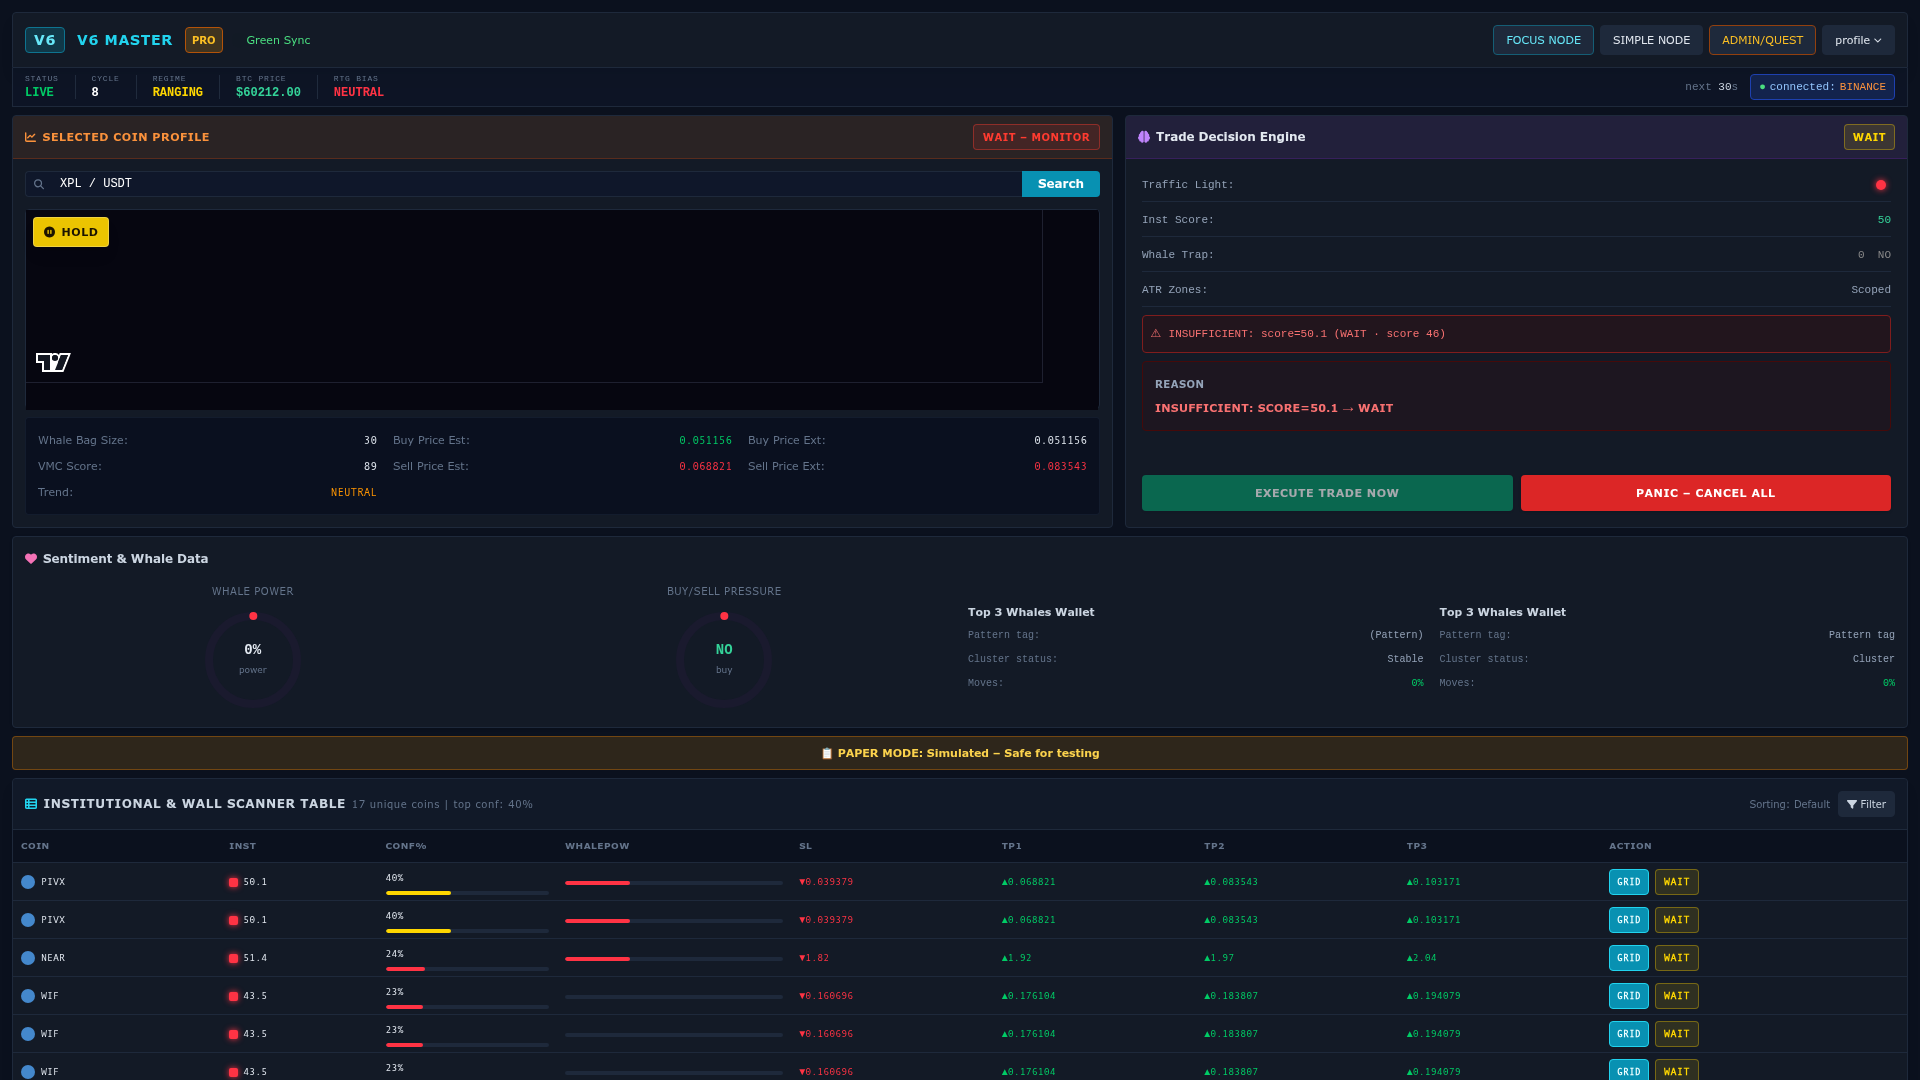
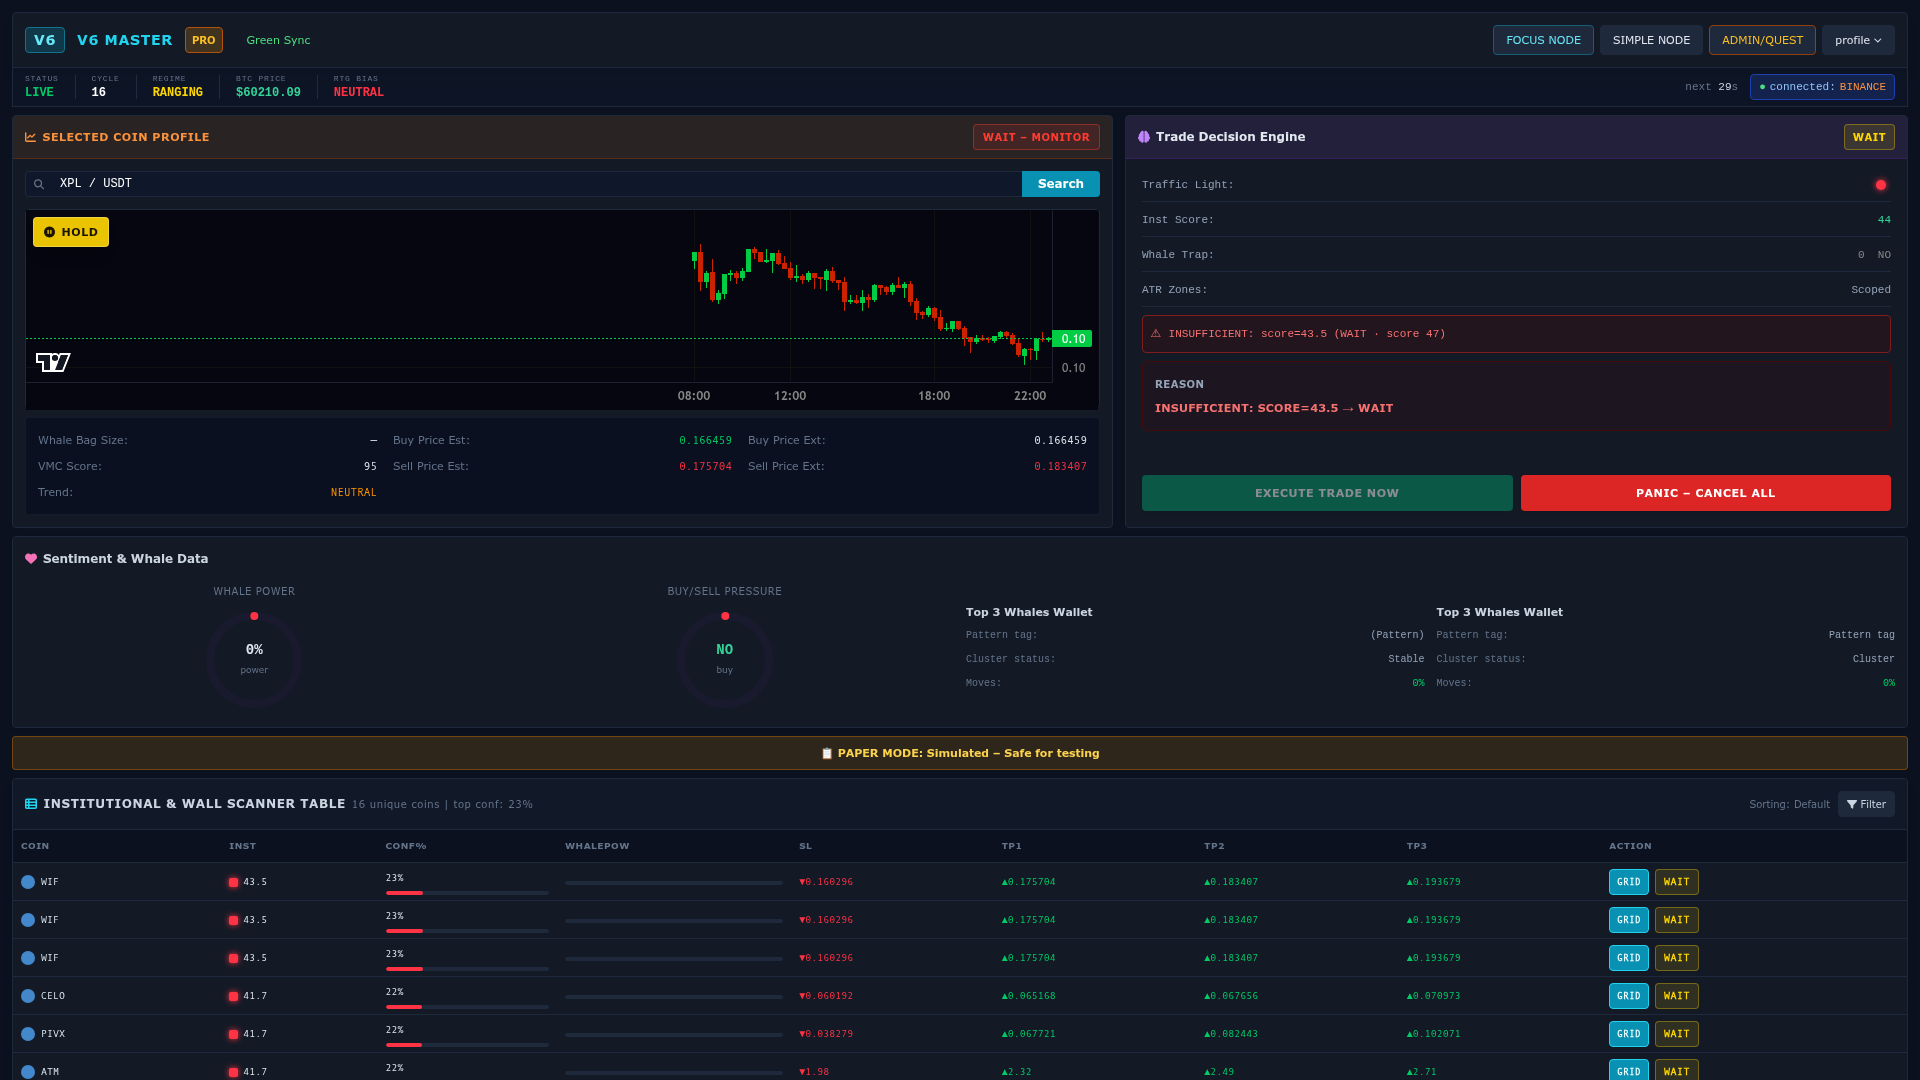
Restore dense, multi-column dashboard layout on mobile devices
Update viewport settings and remove responsive breakpoints to ensure a consistent, dense, multi-column layout across all devices, matching the reference design and fixing mobile rendering issues.

Replit-Commit-Author: Agent
Replit-Commit-Session-Id: be32f168-d16d-4131-b2b5-eff7703ee3bd
Replit-Commit-Checkpoint-Type: full_checkpoint
Replit-Commit-Event-Id: 8429b8b6-d45a-4d66-a552-1df854562b3e
Replit-Commit-Screenshot-Url: https://storage.googleapis.com/screenshot-production-us-central1/96e45e93-5690-48cf-b9a9-a27b3c00e2b2/be32f168-d16d-4131-b2b5-eff7703ee3bd/DhxVkaj
Replit-Helium-Checkpoint-Created: true

diff --git a/V6_Master_Pro_UI/index.html b/V6_Master_Pro_UI/index.html
@@ -2,7 +2,7 @@
 <html lang="en">
 <head>
 <meta charset="UTF-8"/>
-<meta name="viewport" content="width=1200"/>
+<meta name="viewport" content="width=760"/>
 <title>V6 Master Pro</title>
 <script src="https://cdn.tailwindcss.com"></script>
 <script>
@@ -128,10 +128,10 @@
 </div>
 
 <!-- ============ MAIN 2-COLUMN ============ -->
-<main class="grid grid-cols-1 lg:grid-cols-12 gap-3 mt-2">
+<main class="grid grid-cols-12 gap-3 mt-2">
 
   <!-- LEFT: COIN PROFILE & CHART -->
-  <section class="lg:col-span-7">
+  <section class="col-span-7">
     <div class="bg-panel border border-panelb rounded h-full overflow-hidden flex flex-col">
       <div class="flex items-center gap-2 px-3 py-2 bg-orange-500/10 border-b border-orange-700/30">
         <h2 class="text-orange-400 font-semibold uppercase tracking-wider text-[11px] flex items-center gap-1.5">
@@ -169,7 +169,7 @@
   </section>
 
   <!-- RIGHT: TRADE DECISION ENGINE -->
-  <section class="lg:col-span-5">
+  <section class="col-span-5">
     <div class="bg-panel border border-panelb rounded h-full overflow-hidden flex flex-col">
       <div class="flex justify-between items-center px-3 py-2 bg-purple-500/10 border-b border-purple-800/30">
         <h2 class="text-slate-200 font-semibold flex items-center gap-1.5 text-[12px]"><i class="fa-solid fa-brain text-purple-400"></i> Trade Decision Engine</h2>
@@ -202,7 +202,7 @@
 <!-- ============ SENTIMENT & WHALE DATA ============ -->
 <section class="bg-panel border border-panelb rounded p-3 mt-2 shadow">
   <h2 class="text-slate-300 font-semibold text-[12px] mb-3 flex items-center gap-1.5"><i class="fa-solid fa-heart text-pink-400"></i> Sentiment &amp; Whale Data</h2>
-  <div class="grid grid-cols-2 lg:grid-cols-4 gap-4 items-center">
+  <div class="grid grid-cols-4 gap-3 items-center">
     <!-- Whale Power gauge -->
     <div class="flex flex-col items-center">
       <div class="text-[10px] uppercase tracking-wider text-slate-500 mb-1">Whale Power</div>
@@ -276,7 +276,7 @@
 
 <!-- ============ PANELS BELOW TABLE ============ -->
 <div class="text-[10px] uppercase tracking-widest text-slate-600 mt-4 mb-2">Panels Below Table</div>
-<div class="grid grid-cols-1 md:grid-cols-3 gap-3">
+<div class="grid grid-cols-3 gap-3">
 
   <!-- SMD gauge -->
   <div class="bg-panel border border-panelb rounded p-3">
@@ -326,7 +326,7 @@
 </div>
 
 <!-- ============ BOTTOM PANELS ============ -->
-<div class="grid grid-cols-1 md:grid-cols-3 gap-3 mt-2">
+<div class="grid grid-cols-3 gap-3 mt-2">
 
   <!-- SMD 2 + volume surge -->
   <div class="bg-panel border border-panelb rounded p-3">

diff --git a/.agents/memory/v6-modular-ui.md b/.agents/memory/v6-modular-ui.md
@@ -34,18 +34,30 @@ on `#profile-badge`) WIPES Tailwind layout utilities baked into the HTML
 (`ml-auto`, etc.) on the first data refresh. Re-append those utilities in the JS
 assignment, or use `classList` to toggle only the variant class.
 
-## Mobile fidelity: viewport is intentionally `width=1200` (NOT device-width)
-The target mockups are the DENSE DESKTOP layout shown on a phone (zoomed out).
-With `width=device-width` the Tailwind `lg:`/`md:` breakpoints collapsed everything
-to one tall single column on mobile, which the user read as "simplified / sections
-missing" (the sections were all present, just stacked + below the fold). Fix:
-`<meta name="viewport" content="width=1200">` forces phones to render the full
-desktop canvas scaled to fit = matches the reference. This is a deliberate
-compatibility override, not responsive best practice — do NOT "fix" it back to
-device-width without the user asking. The chart carries an always-visible
-Buy/Sell/Hold signal badge (`#chart-signal`/`#chart-signal-text`) set in
-`updateCoinProfile` from the top coin `v6.label` (BUY=green / WAIT→"HOLD"=amber /
-SELL+AVOID=red); it is independent of the timing-fragile `setMarkers` path.
+## Mobile fidelity: viewport `width=760` + FORCED multi-column (no collapse)
+The reference mockups are an IDEALIZED dense, readable, multi-column phone dashboard
+(they even contain chart annotations like "SlowRise SellZone"/"VSAP" that exist
+NOWHERE in this codebase — do NOT chase a literal pixel-match; they are concept art).
+Two failure modes to avoid, both of which the user rejected:
+  - `width=device-width`: Tailwind `lg:`/`md:` breakpoints collapse everything into
+    one tall SINGLE column → user reads it as "simplified / sections missing".
+  - `width=1200`: phone scales the desktop canvas to ~38% → TINY / unreadable →
+    user reads it as "stripped down".
+The sweet spot: `<meta name="viewport" content="width=760">` (dense but readable,
+~60% scale on a ~454px device) AND remove the responsive-collapse breakpoints so the
+layout NEVER stacks on mobile — `main` is `grid-cols-12` (not `grid-cols-1
+lg:grid-cols-12`), the two top sections are `col-span-7`/`col-span-5` (drop the `lg:`),
+sentiment is `grid-cols-4`, the two panel rows are `grid-cols-3` (drop `md:`).
+**Keep `sm:` utilities** — `sm`(640) IS active at viewport 760, so `sm:grid-cols-2/3`
+inside cards still work. Scanner table stays `overflow-x-auto` (9 cols scroll on phone).
+Desktop is unaffected: desktop ignores the viewport `width=`, and the layout was
+already multi-col at `lg`. **Why:** picking the viewport is a 3-way tradeoff —
+device-width=collapsed, too-wide=tiny, ~760=balanced; tune the number, don't revert
+to either extreme without the user asking.
+The chart carries an always-visible Buy/Sell/Hold badge (`#chart-signal`/
+`#chart-signal-text`) set in `updateCoinProfile` from top coin `v6.label`
+(BUY=green / WAIT→"HOLD"=amber / SELL+AVOID=red); independent of the fragile
+`setMarkers` path.
 
 ## How it is served — root `/` now REDIRECTS to `/v6/`
 Flask (`main.py`) serves it at `/v6` via `send_from_directory`